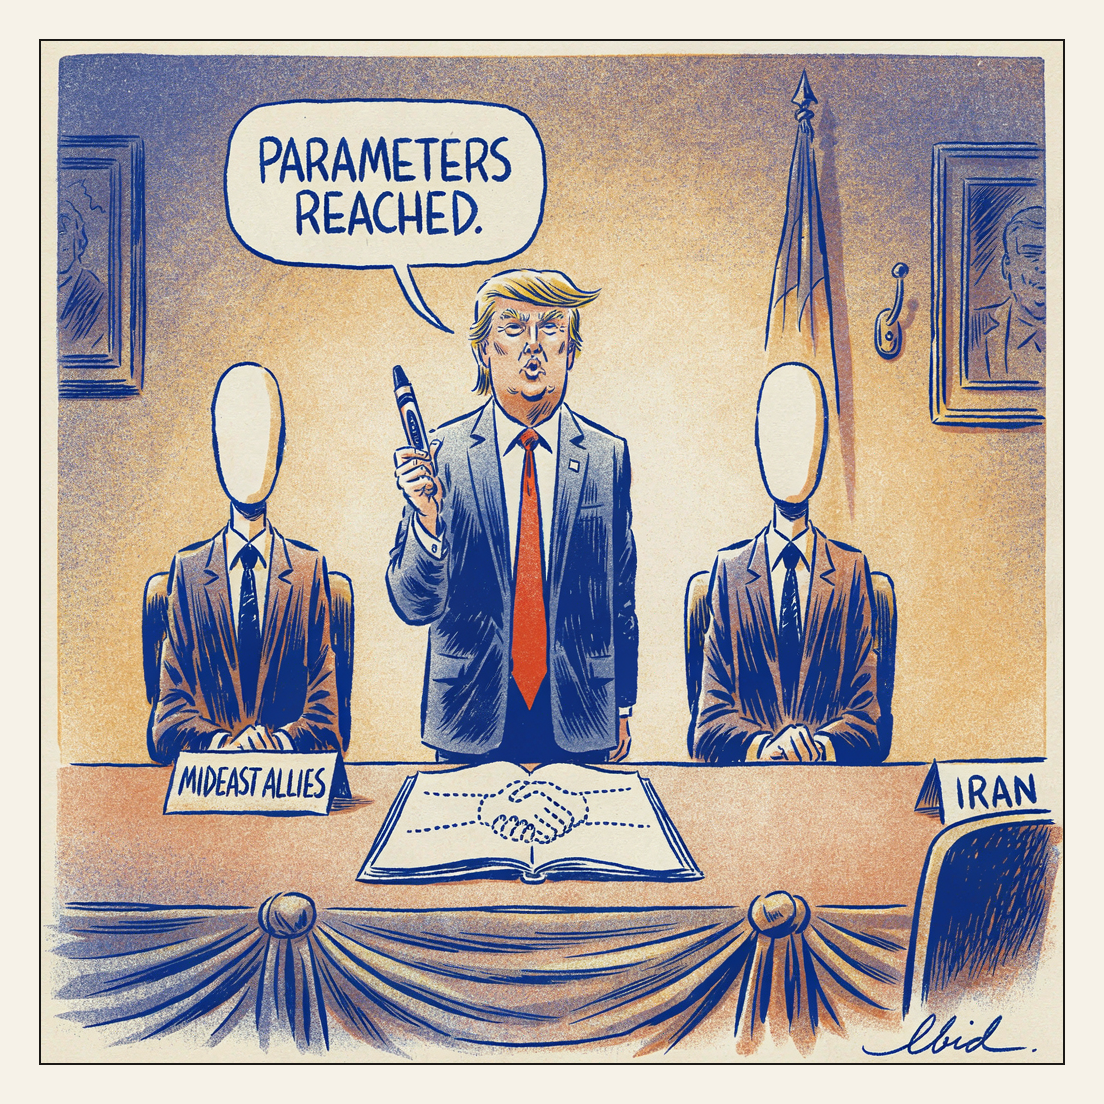
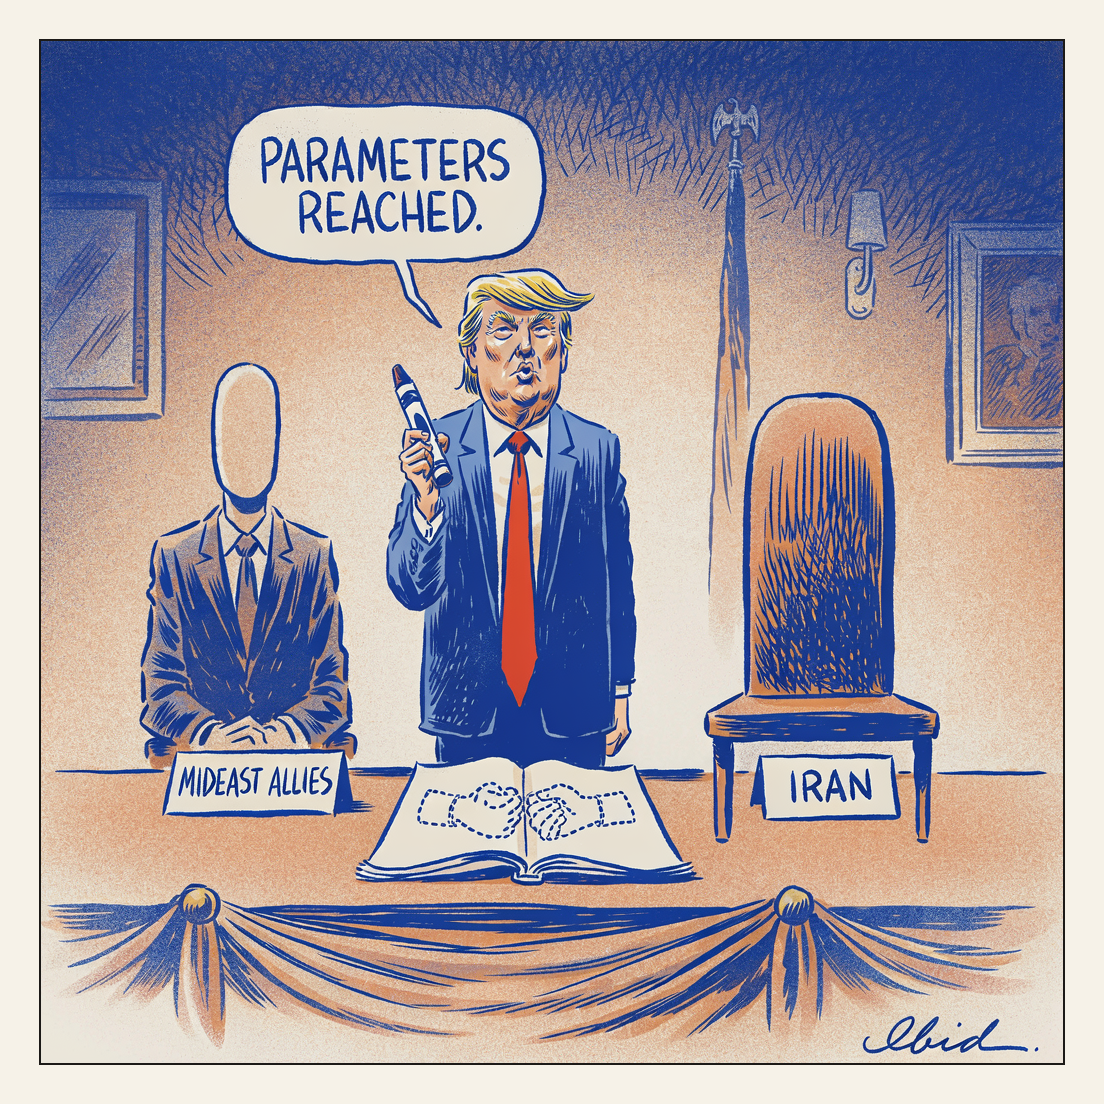
publish

diff --git a/index.html b/index.html
@@ -6,7 +6,7 @@
 <link rel="alternate" type="application/rss+xml" href="feed.xml">
 </head><body><div class="wrap">
 <header class="site"><h1>Ibid.</h1><p>cartoons about power — sources cited</p></header>
-<div class="card" style="--accent:#dbb486"><a class="img" href="p/20260802-outlines.html"><img src="images/20260802-outlines_master.png" alt="Editorial cartoon: at a treaty-signing table, Donald Trump beams and holds a fat blunt crayon aloft over an oversized coloring-book page showing a dotted, entirely uncolored outline of two clasped hands. He is flanked by two faceless suited delegates, one behind a nameplate reading MIDEAST ALLIES. At the far end of the table a chair sits empty and pushed in behind a place card reading IRAN." loading="lazy"></a><div class="strip"></div><h2><a href="p/20260802-outlines.html">Strikes resume outside the lines.</a></h2><p class="kicker">Outlines <span class="dot">&middot;</span> August 1, 2026</p></div>
+<div class="card" style="--accent:#24408a"><a class="img" href="p/20260802-outlines.html"><img src="images/20260802-outlines_master.png" alt="Editorial cartoon: at a treaty-signing table, Donald Trump beams and holds a fat blunt crayon aloft over an oversized coloring-book page showing a dotted, entirely uncolored outline of two clasped hands. He is flanked by two faceless suited delegates, one behind a nameplate reading MIDEAST ALLIES. At the far end of the table a chair sits empty and pushed in behind a place card reading IRAN." loading="lazy"></a><div class="strip"></div><h2><a href="p/20260802-outlines.html">Strikes resume outside the lines.</a></h2><p class="kicker">Outlines <span class="dot">&middot;</span> August 1, 2026</p></div>
 <div class="card" style="--accent:#845b2a"><a class="img" href="p/20260802-the-assurance.html"><img src="images/20260802-the-assurance_master.png" alt="A colored-pencil style editorial cartoon shows a courtroom where a caricatured Donald Trump leans across a sheet-covered body on a gurney, pressing defibrillator paddles to it while a speech bubble above him reads &quot;It&#x27;s dead.&quot;; the body&#x27;s exposed foot bears a toe tag labeled &quot;$1.776BN FUND&quot; and a placard on the sheet reads &quot;BLANCHE&quot;. Behind the gurney, a man raises his right hand as if being sworn in, while two older men in suits sit at an elevated wooden bench, one reading papers and one holding a pen, with a U.S. flag at the left and the signature &quot;Ibid.&quot; in the lower right corner." loading="lazy"></a><div class="strip"></div><h2><a href="p/20260802-the-assurance.html">Cornyn and Tillis asked for assurances.</a></h2><p class="kicker">The Assurance <span class="dot">&middot;</span> August 1, 2026</p></div>
 <div class="card" style="--accent:#cfa377"><a class="img" href="p/20260801-one-month.html"><img src="images/20260801-one-month_master.png" alt="On flat empty scrubland with no wall or fence anywhere, a labelled Antonio Tajani crouches and padlocks a heavy chain across a single freestanding door stencilled SCHENGEN, open ground visible past both jambs." loading="lazy"></a><div class="strip"></div><h2><a href="p/20260801-one-month.html">Rome&#x27;s item for Tuesday&#x27;s emergency Council.</a></h2><p class="kicker">One Month <span class="dot">&middot;</span> August 1, 2026</p></div>
 <div class="card" style="--accent:#97392d"><a class="img" href="p/20260801-today-s-specials.html"><img src="images/20260801-today-s-specials_master.png" alt="A political cartoon shows a caricature of Donald Trump standing on a paint-splattered stepladder in front of a columned building, tucking dollar bills into his pocket while changing letters on a large marquee-style price board that reads &quot;TRUTH API $100,000 MO&quot; and &quot;MULTI-YEAR $60,000&quot;; a speech balloon from him says &quot;Free tier reads the newspaper.&quot; To the right, a heavyset bearded man in sunglasses and an apron labeled &quot;DON JR.&quot; holds out a card-payment terminal with cash stuffed in his apron pocket, while at lower left a crowd of men raises hands, smartphones, and money toward the sign, and the artist&#x27;s signature &quot;lbid&quot; appears in the bottom right corner." loading="lazy"></a><div class="strip"></div><h2><a href="p/20260801-today-s-specials.html">The trust is revocable.</a></h2><p class="kicker">Today&#x27;s Specials <span class="dot">&middot;</span> August 1, 2026</p></div>

diff --git a/p/20260802-outlines.html b/p/20260802-outlines.html
@@ -12,7 +12,7 @@
 </head><body><div class="wrap">
 <header class="site"><h1>Ibid.</h1><p>cartoons about power — sources cited</p></header>
 <a class="back" href="../index.html">&larr; all cartoons</a>
-<article style="--accent:#dbb486"><div class="strip"></div><h1 class="punch">Strikes resume outside the lines.</h1><p class="kicker">Outlines</p><p class="meta">August 1, 2026 &middot; Ibid.</p>
+<article style="--accent:#24408a"><div class="strip"></div><h1 class="punch">Strikes resume outside the lines.</h1><p class="kicker">Outlines</p><p class="meta">August 1, 2026 &middot; Ibid.</p>
 <img src="../images/20260802-outlines_master.png" alt="Editorial cartoon: at a treaty-signing table, Donald Trump beams and holds a fat blunt crayon aloft over an oversized coloring-book page showing a dotted, entirely uncolored outline of two clasped hands. He is flanked by two faceless suited delegates, one behind a nameplate reading MIDEAST ALLIES. At the far end of the table a chair sits empty and pushed in behind a place card reading IRAN.">
 <p class="summary">President Trump said Mideast allies have reached the outlines of a deal to end the Iran war and that the US will halt new strikes. AP reported the announcement came from Trump rather than from any signatory, with the pause conditioned on &quot;parameters reached&quot; rather than a signed agreement. The allies credited were not named, and Iran was not reported as a party to the outlines.</p>
 <footer class="src">Source: <a href="https://apnews.com/article/iran-war-trump-saudi-crown-prince-call-814164417aa284dc8a6d34ac22ea1a8e" rel="noopener">Trump claims Mideast allies have reached outlines of deal to end Iran war</a> (apnews.com)</footer></article>
